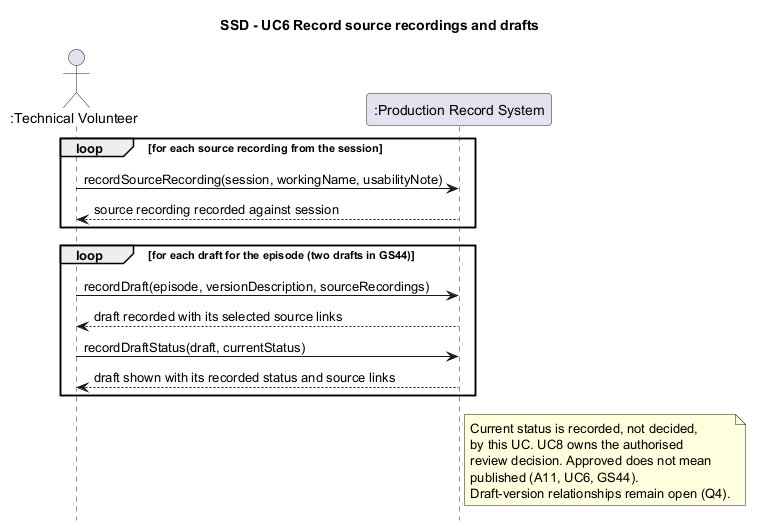
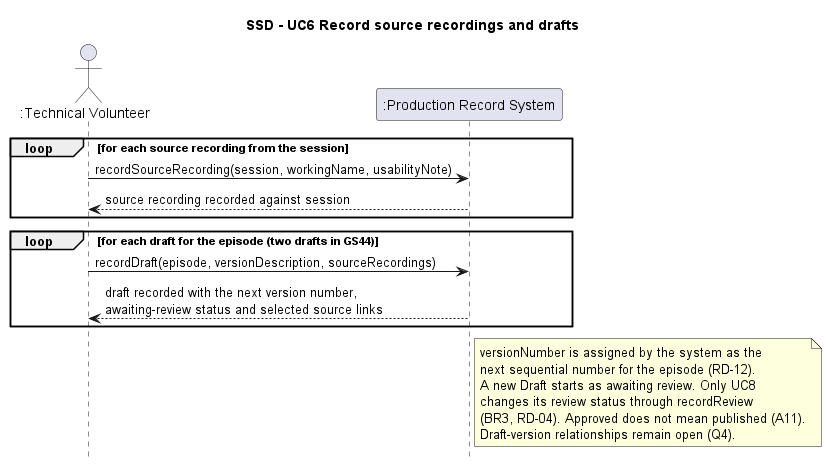
Made Review changes for #23

Changed region(s): [[0.0, 0.0899, 0.9987, 0.9593], [0.2724, 0.03, 0.7263, 0.0899]]

diff --git a/CA 2/Individual_Contributions/Section_C_Recording_Jack/CA2_Section_C.md b/CA 2/Individual_Contributions/Section_C_Recording_Jack/CA2_Section_C.md
@@ -101,7 +101,7 @@ CA1 user stories and acceptance criteria to preserve:
 | GS41: Missing equipment remains visible without stopping the session | Boundary | Missing equipment is shown on the session even though staff continue with the planning record. | FR6 / US5 | UC5 | No rule is assumed that prevents the session from being recorded or proceeding. |
 | GS42: Record several source recordings for one session | Success | Several files are linked to the same recording session and keep their working filenames. | FR7 / US6 | UC6 | One session may produce several source recordings. |
 | GS43: Link sources to a draft | Success | An existing draft identifies the source recordings used to create it. | FR7 / US6 | UC6 | A draft links to its sources rather than relying on filenames to identify them. |
-| GS44: Identify the approved draft | Alternative | One existing draft is marked as approved while another draft remains awaiting review. | FR7 / US6 | UC6 | A11: approved is a status of a draft, not a separate draft record. RD-04 lists the agreed draft-status values. |
+| GS44: Identify the approved draft | Alternative | One draft is approved through UC8 while another remains awaiting review. | FR7 / US6 | UC6, UC8 | A11: approved is a status of a draft, not a separate draft record. RD-04 lists the agreed draft-status values. |
 | GS45: Record granted and outstanding permissions | Success | A granted permission and an outstanding permission are retained against the same draft. | FR8 / US7 | UC7 | Permission status is associated with the draft that uses the material. |
 | GS46: Display an outstanding permission | Boundary | Viewing a draft makes its outstanding permission visible. | FR8 / US7 | UC7 | BR5: an outstanding permission can block publication, but the review decision remains with UC8. |
 
@@ -193,16 +193,15 @@ Use case: Record source recordings and draft versions; an approved draft is not 
 Primary actor: Technical volunteer.  
 Goal: Record a session's files and mark which are usable (G6).
 
-Main success scenario: Record several source files, link them to drafts, and show each draft's status (GS42–GS44).
+Main success scenario: Record several source files and drafts; each new draft starts as awaiting review. UC8 records later review outcomes (GS42–GS44).
 
 | Actor | System |
 |---|---|
 | The technical volunteer records each source file from the session, including its working name and usability note. |  |
 |  | The system records each SourceRecording against the session. |
-| The technical volunteer records each draft for the episode and selects the source recordings it uses. |  |
-|  | The system records each Draft and its source links. |
-| The technical volunteer records the current status supplied by the authorised review process for each draft. |  |
-|  | The system shows each draft with its linked sources and current status. |
+| The technical volunteer records each draft description for the episode and selects the source recordings it uses. |  |
+|  | The system assigns the next sequential version number for the episode, creates the Draft as awaiting review, and records its source links. |
+|  | The system returns each draft with its version number, source links and awaiting-review status. |
 
 ![SSD UC6: Record sources and drafts](../../../Diagrams/System_Sequence_Diagrams/SSD_UC6_RecordSourcesAndDrafts.png)
 
@@ -220,50 +219,17 @@ loop for each source recording from the session
 end
 
 loop for each draft for the episode (two drafts in GS44)
-  TV -> S : recordDraft(episode, versionNumber, versionDescription, sourceRecordings)
-  S --> TV : draft recorded with version number and selected source links
-
-  TV -> S : recordDraftStatus(draft, status)
-  S --> TV : draft shown with status and source links
+  TV -> S : recordDraft(episode, versionDescription, sourceRecordings)
+  S --> TV : draft recorded with the next version number,\nawaiting-review status and selected source links
 end
 
 note right of S
-  Current status is recorded, not decided,
-  by this UC. UC8 owns the authorised
-  review decision. Approved does not mean
-  published (A11, UC6, GS44).
-  Status is one of awaiting review, approved,
-  returned for changes, postponed or withdrawn (RD-04).
-  versionNumber is sequential for the episode (RD-12).
+  versionNumber is assigned by the system as the
+  next sequential number for the episode (RD-12).
+  A new Draft starts as awaiting review. Only UC8
+  changes its review status through recordReview
+  (BR3, RD-04). Approved does not mean published (A11).
   Draft-version relationships remain open (Q4).
-end note
-@enduml
-```
-
-Alternative scenario: A draft remains awaiting review; its status is visible and the system does not infer approval from another draft or from its sources.
-
-| Actor | System |
-|---|---|
-| The technical volunteer records the status "awaiting review" for a draft. |  |
-|  | The system shows that draft as awaiting review and preserves its own source links. |
-
-```plantuml
-@startuml SSD_UC6_DraftAwaitingReview
-title SSD - UC6 Show a draft awaiting review
-hide footbox
-
-actor ":Technical Volunteer" as TV
-participant ":Production Record System" as S
-
-TV -> S : recordDraftStatus(draft, awaitingReview)
-S --> TV : draft shown as awaiting review with its own source links
-
-note right of S
-  This records the current status only.
-  It does not infer status from draft order,
-  source links or publication (A11, Q4).
-  awaiting review is an agreed RD-04 status;
-  there is no separate "not approved" status.
 end note
 @enduml
 ```
@@ -360,23 +326,13 @@ end note
 
 | Item | Content |
 |---|---|
-| Operation | `recordDraft(episode, versionNumber, versionDescription, sourceRecordings)` |
+| Operation | `recordDraft(episode, versionDescription, sourceRecordings)` |
 | Cross-references | UC6, FR7, US6, GS43, GS44, RD-12 |
-| Preconditions | The episode exists. `sourceRecordings` identifies at least one existing source recording. `versionNumber` is sequential for the episode. |
-| Postconditions | `Draft` created; associated with the episode; `versionNumber` and `versionDescription` recorded; each selected source recording associated with the draft. The operation returns the recorded `Draft`, including its version number. A newly recorded draft starts as `awaiting review`, unless a separately supplied current status is recorded. |
+| Preconditions | The episode exists. `sourceRecordings` identifies at least one existing source recording. |
+| Postconditions | `Draft` created and associated with the episode; the system assigns the next sequential `versionNumber` for that episode (RD-12); `versionDescription` and source associations recorded; `Draft.status` set to `awaiting review`. The operation returns the recorded `Draft`, including its version number. |
 | Controlled failures | Episode or a selected source recording not found: no draft or associations are created. |
 
-### OC08: recordDraftStatus
-
-| Item | Content |
-|---|---|
-| Operation | `recordDraftStatus(draft, status)` |
-| Cross-references | UC6, FR7, US6, GS44, RD-04 |
-| Preconditions | The draft exists. `status` is one of `awaiting review`, `approved`, `returned for changes`, `postponed` or `withdrawn`. |
-| Postconditions | `Draft.status` = the supplied status. No `DraftReview` or publication decision is created; UC8 owns that workflow. |
-| Controlled failures | Draft not found or status is not an agreed RD-04 value: the draft is unchanged. |
-
-### OC09: recordPermission
+### OC08: recordPermission
 
 | Item | Content |
 |---|---|
@@ -386,7 +342,7 @@ end note
 | Postconditions | `Permission` created; material description, source, permitted use and status recorded; associated with each selected draft. |
 | Controlled failures | A selected draft not found: no permission or partial draft associations are created. |
 
-### OC10: viewDraftPermissions
+### OC09: viewDraftPermissions
 
 | Item | Content |
 |---|---|
@@ -424,7 +380,8 @@ end note
 ### Draft
 
 - **Responsibilities:**
-  - Know and keep the sequential version number, draft description and current status.
+  - Know and keep the system-assigned sequential version number, draft description and current review status.
+  - Start as awaiting review; accept later review status changes only through UC8's `recordReview`.
   - Use only the agreed RD-04 status values: awaiting review, approved, returned for changes, postponed or withdrawn.
   - Associate the draft with its episode
   - Keep links to the source recordings used to make the draft
@@ -457,10 +414,10 @@ end note
 ### RecordingDraftController (design class)
 
 - **Responsibilities:**
-  - Receive `recordRecordingSession`, `recordSourceRecording`, `recordDraft`, `recordDraftStatus`, `recordPermission` and `viewDraftPermissions`.
+  - Receive `recordRecordingSession`, `recordSourceRecording`, `recordDraft`, `recordPermission` and `viewDraftPermissions`.
   - Find episodes, recording sessions, drafts and source recordings through repositories.
   - Create or update the domain objects and save the result.
-  - Delegate recording and permission status handling to the relevant domain objects.
+  - Delegate recording and permission status handling to the relevant domain objects. New drafts start awaiting review; UC8 records later review outcomes.
   - Return the session, source recording, draft or permission data requested by the use cases.
 - **Collaborators:**
   - Episode

diff --git a/CA 2/Object_Oriented_Design/CRC_Cards/integrated-crc-cards.md b/CA 2/Object_Oriented_Design/CRC_Cards/integrated-crc-cards.md
@@ -64,7 +64,7 @@ This file collects the CRC cards from the four sections. Each card stays in the 
 | 3.6 | Episode (A, B, C)                           | Sections B and C must find episodes. Only Proposal has a repository. | Add a shared `EpisodeRepository`. Or, find episodes through Proposal.                                                       | Rani, Jack           |      |
 | 3.7 | Section C                                   | Section C has no controller card.                                    | Add a RecordingDraftController card (see controller-pattern-decision.md).                                                   | Jack                 | Done |
 | 3.8 | Section C                                   | EquipmentItem is a collaborator, but it has no card.                 | Add a card. Or, make missing equipment an attribute of RecordingSession.                                                    | Jack                 | Done |
-| 3.9 | Draft (C) / DraftReview (D)                 | Two operations record the draft status: `recordDraftStatus` (C, OC08) and `recordReview` (D, OC01). OC08 lets a volunteer set any status. This can bypass the editor review (BR3). | OC08 records only the status before review (for example, awaiting review). Only OC01 records review outcomes. | Jack, Tsubasa |      |
+| 3.9 | Draft (C) / DraftReview (D)                 | UC6 allowed a volunteer to set the draft status through `recordDraftStatus`, which could bypass the editor review (BR3). | Remove `recordDraftStatus`. A new draft starts as awaiting review; only UC8 `recordReview` changes its review status. | Jack, Tsubasa |      |
 | 3.10 | Draft (C) / DraftReview (D)                | DraftReview is for one channel, but `Draft.status` has one value for all channels. | Calculate the release status for each channel from the DraftReview records. Or, record that one review covers all channels. | Jack, Tsubasa |      |
 | 3.11 | ReviewPublicationController (D)            | Section D rejects repositories. Proposed DEC-10 uses repositories to find and save objects. | Section D uses repositories to find drafts and publications. Or, DEC-10 records the exception. | Tsubasa, All |      |
 | 3.12 | Domain model (all sections)                | The domain model does not agree with the contracts. Examples: no `Consent.evidenceLocation`, no `PublicationDateChange`, no `Publication.status`, no `EquipmentItem`. | Each owner adds the attributes and classes that their contracts use. Then the group updates the domain model. | All |      |

diff --git a/CA 2/Object_Oriented_Design/GRASP/controller-pattern-decision.md b/CA 2/Object_Oriented_Design/GRASP/controller-pattern-decision.md
@@ -14,7 +14,7 @@ The design has **one use-case controller for each section**. The design also has
 |--------------------------------------------------------------|---------|----------------|-----------------------------------------------------------------------------------------------------------------------------------|-------------------------------|
 | ProposalController                                           | A       | UC1, UC2       | `recordProposal`, `addPlannedEpisode`, `updateProposalDetails`, `selectProposal`, `recordDecision`                                | Section A GRASP (#32)         |
 | ContributorConsentController                                 | B       | UC3, UC4       | `recordContributor`, `recordContribution`, `updateContributorDetails`, `selectContribution`, `recordConsent`                      | Section B GRASP               |
-| RecordingDraftController (proposed name; Jack must agree it) | C       | UC5, UC6, UC7  | `recordRecordingSession`, `recordSourceRecording`, `recordDraft`, `recordDraftStatus`, `recordPermission`, `viewDraftPermissions` | Section C SSDs (#23)          |
+| RecordingDraftController (proposed name; Jack must agree it) | C       | UC5, UC6, UC7  | `recordRecordingSession`, `recordSourceRecording`, `recordDraft`, `recordPermission`, `viewDraftPermissions` | Section C SSDs (#23)          |
 | ReviewPublicationController                                  | D       | UC8, UC9, UC10 | `selectDraft`, `viewDraft`, `recordReview`, `recordPublicationDate`, `changePublicationDate`, `recordCorrection`                  | Section D CRC cards           |
 | **ProductionOverviewController**                             | Shared  | UC11           | `viewProductionOverview`, `viewDraftBlockers`                                                                                     | UC11 contracts CO11.1, CO11.2 |
 
